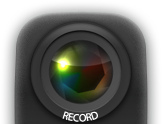
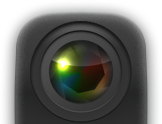
more geo updates
new record icon

diff --git a/Resources/layouts/geolocation.js b/Resources/layouts/geolocation.js
@@ -69,7 +69,7 @@ Layouts.geolocation = function(story) {
 			if (!e.success || e.error)
 			{
 				Ti.API.info("Code translation: "+translateErrorCode(e.code));
-				alert('error ' + JSON.stringify(e.error));
+				alert('Please double check you have location turned on.');
 				return;
 			}
 	
